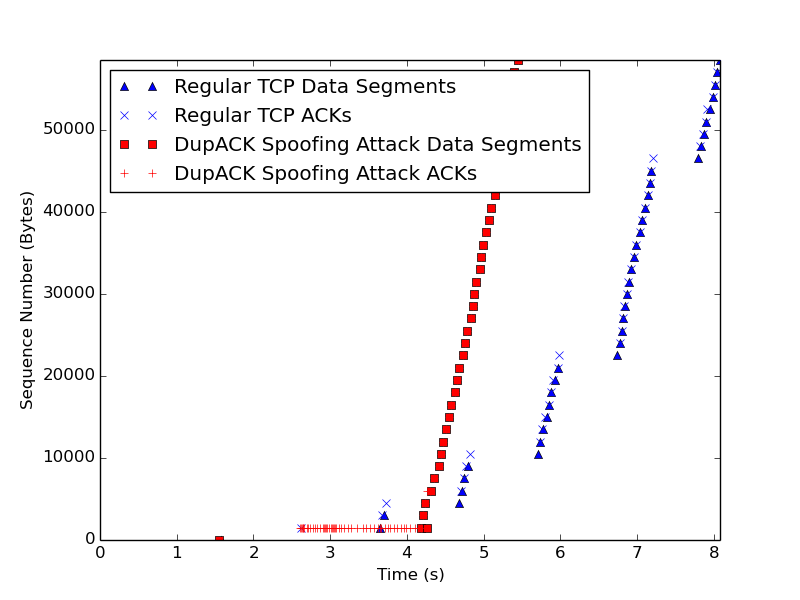
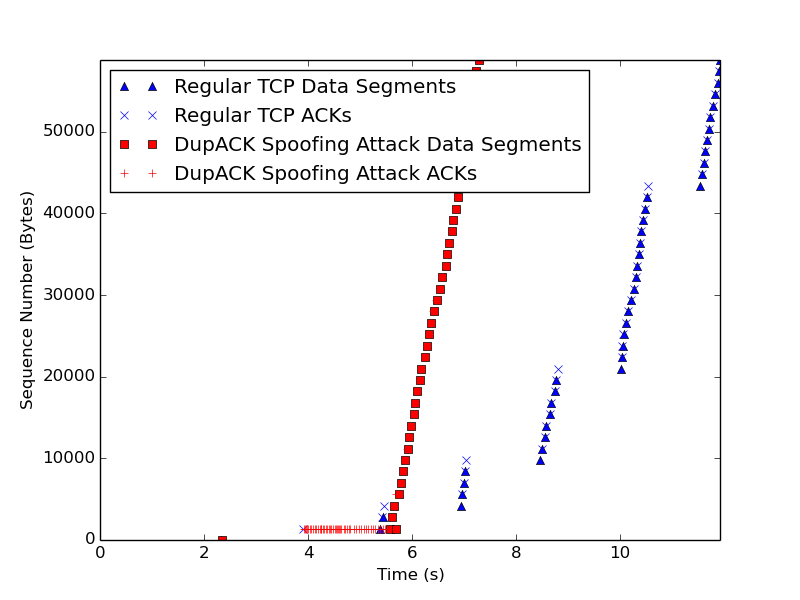
modified run_all script

diff --git a/run_attacks.py b/run_attacks.py
@@ -4,6 +4,7 @@ from mininet.net import Mininet
 from mininet.node import CPULimitedHost
 from mininet.link import TCLink
 from mininet.util import dumpNodeConnections
+import time
 
 OUTPUT_DIR = './plots'
 
@@ -37,8 +38,11 @@ def main():
     # Dumps network topology
     dumpNodeConnections(net.hosts)
     # Performs a basic all pairs ping test to check connectivity
-    net.pingAll()
-    
+    drop_rate = net.pingAll()
+    if drop_rate > 0:
+        print 'Reachability test failed!! Please restart. '
+        return
+
     # Note: for the following TCP communication,
     #       always start the receiver side first!
     data_size, num_attack = args.data_size, args.num_attack
@@ -46,39 +50,62 @@ def main():
     h1 = net.get('h1')
     h2 = net.get('h2')
 
+    # RTT = 4 * link_delay
+    rtt = 4 * args.link_delay
+    print('Round-trip delay is %.1f secs.' % (rtt / 1000.))
+
+    # sleep 2s to clean up packets in the network
+    time.sleep(2.)
+
     # First, record a normal TCP communication
     print('Starting normal TCP connection...')
+    start_time = time.time()
     h2.sendCmd('python reno.py --role receiver --host h2')
-    h1.cmd('python reno.py --role sender --host h1 --limit %d'\
-              % data_size)
-    # Blocks execution until h2 has finished
+    h1.sendCmd('python reno.py --role sender --host h1 --rtt %d --limit %d'\
+                % (rtt, data_size))
     h2.waitOutput()
-    print('Normal TCP connection done!')
+    h1.waitOutput()
+    print('Normal TCP connection done! (%.2f sec)' % (time.time() - start_time))
     
+    time.sleep(2.)
+
     # ACK Division attack plot
     print('Starting ACK Division attack...')
+    start_time = time.time()
     h2.sendCmd('python attacker.py --host h2 --attack div --num %d' % num_attack)
-    h1.cmd('python reno.py --role sender --host h1 --limit %d' % data_size)
+    h1.sendCmd('python reno.py --role sender --host h1 --rtt %d --limit %d'\
+                % (rtt, data_size))
     h2.waitOutput()
+    h1.waitOutput()
     h2.cmd('mv attack_log.txt div_attack_log.txt')
-    print('ACK Division attack done!')
+    print('ACK Division attack done! (%.2f sec)' % (time.time() - start_time))
     
+    time.sleep(2.)
+
     # DupACK Spoofing attack plot
     print('Starting DupACK Spoofing attack...')
+    start_time = time.time()
     h2.sendCmd('python attacker.py --host h2 --attack dup --num %d' % num_attack)
-    h1.cmd('python reno.py --role sender --host h1 --limit %d' % data_size)
+    h1.sendCmd('python reno.py --role sender --host h1 --rtt %d --limit %d'\
+                % (rtt, data_size))
     h2.waitOutput()
+    h1.waitOutput()
     h2.cmd('mv attack_log.txt dup_attack_log.txt')
-    print('DupACK Spoofing attack done!')
-    
+    print('DupACK Spoofing attack done! (%.2f sec)' % (time.time() - start_time))
+   
+    time.sleep(2.)
+
     # Optimistic ACKing attack plot
     print('Starting Optimistic ACKing attack...')
+    start_time = time.time()
     h2.sendCmd('python attacker.py --host h2 --attack opt --num %d --interval %d'\
                 % (num_attack, opt_interval))
-    text1 = h1.cmd('python reno.py --role sender --host h1 --limit %d' % data_size)
-    text2 = h2.waitOutput()
+    h1.sendCmd('python reno.py --role sender --host h1 --rtt %d --limit %d'\
+                % (rtt, data_size))
+    h2.waitOutput()
+    h1.waitOutput()
     h2.cmd('mv attack_log.txt opt_attack_log.txt')
-    print('Optimistic ACKing attack done!')
+    print('Optimistic ACKing attack done! (%.2f sec)' % (time.time() - start_time))
 
     # Shutdown mininet
     net.stop()

diff --git a/reno.py b/reno.py
@@ -283,12 +283,13 @@ class TCP_Client:
             self.start_sender()
         if self.role == 'receiver':
             self.start_receiver()
-
         self.xprint('connection terminated')
+        
         if self.role == 'receiver':
             self.xprint('writing seq/ack logs to file ...')
             self.write_logs_to_files()
             self.xprint('writing logs done!')
+
 
 if __name__ == "__main__":
     parser = argparse.ArgumentParser(description="Naive TCP.")

diff --git a/reno_enhanced.py b/reno_enhanced.py
@@ -360,12 +360,13 @@ class TCP_Client:
             self.start_sender()
         if self.role == 'receiver':
             self.start_receiver()
-
         self.xprint('connection terminated')
+        
         if self.role == 'receiver':
             self.xprint('writing seq/ack logs to file ...')
             self.write_logs_to_files()
             self.xprint('writing logs done!')
+
 
 if __name__ == "__main__":
     parser = argparse.ArgumentParser(description="Naive TCP.")

diff --git a/README.md b/README.md
@@ -1,6 +1,24 @@
 # cs244-final-project
-Koki Yoshida and Yanshu Hong's CS244 Final Project - TCP Congestion Control with a Misbehaving Receiver
+Koki Yoshida and Yanshu Hong's CS244 Final Project 
+- TCP Congestion Control with a Misbehaving Receiver
 
+
+## One-line Reproduction
+We have provided one single shell script that reproduces all three attacks
+in one run. To reproduce the results, run:
+```
+$ sudo ./run.sh
+```
+
+The default network topology consists of two end hosts connected via one
+switch. Default link delay is 375ms, which amounts to a round-trip delay of
+1.5s. The whole process takes about 1 minute to run.
+
+After the shell script finishes, check out the reproduced plots in the `./plot`
+directory.
+
+
+## TCP Reno Client Commands:
 To run Mininet with XTerm windows (for TCP sawtooth):
 ```
 $ sudo mn --custom mn.py --topo congestion --link tc -x
@@ -12,17 +30,26 @@ $ sudo mn --custom mn.py --topo standard --link tc -x
 
 Run sender on host h1:
 ```
-$ python naive_tcp.py --role sender --host h1
+$ python reno.py --role sender --host h1
 ```
 with limit (say, up to 60 kB of data):
 ```
-$ python naive_tcp.py --role sender --host h1 --limit 60
+$ python reno.py --role sender --host h1 --limit 60
 ```
 
 Run receiver on host h2:
 ```
-$ python naive_tcp.py --role receiver --host h2
+$ python reno.py --role receiver --host h2
 ```
+
+Run sender/receiver with defense mechanisms (nonce layer) on:
+```
+$ python reno_enhanced.py --role sender --host h1
+# python reno_enhanced.py --role receiver --host h2
+```
+
+Use `--verbose` to log all sent and received packets in the terminal window.
+
 
 ## Attacker Commands:
 To run ACK Division Attacker:
